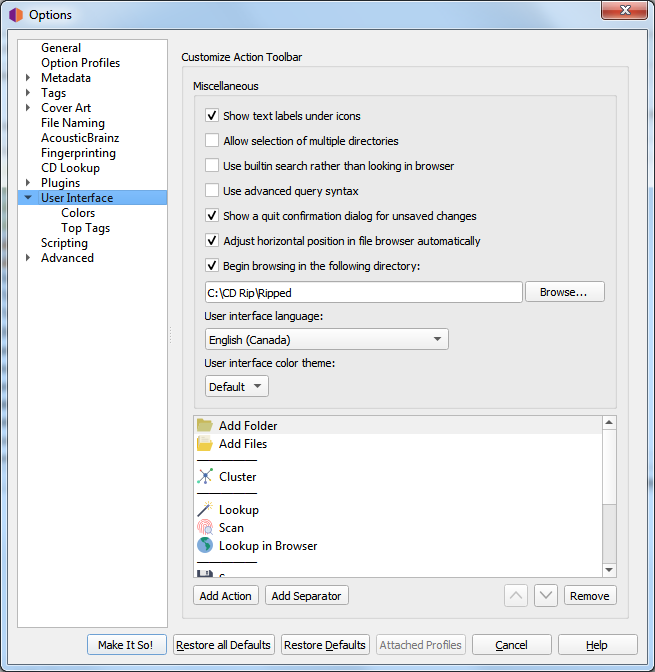
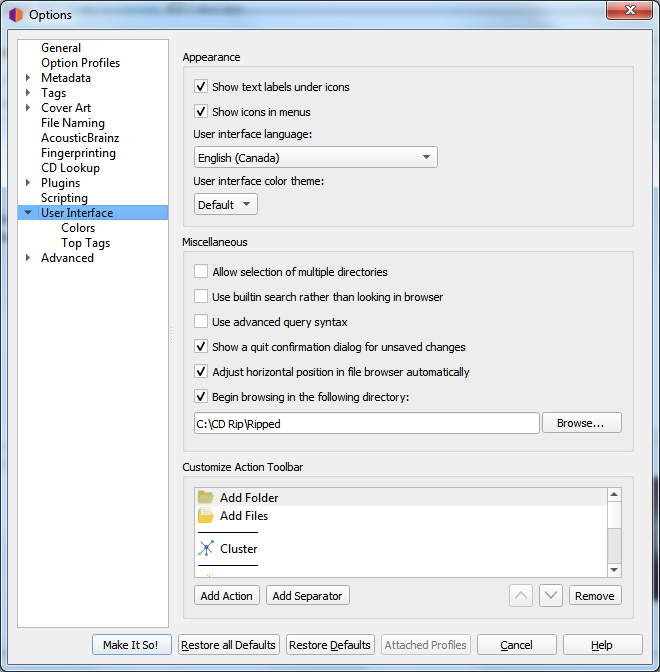
Add new options and rearrange to match the Interface options screen
- Add `Show icons in menus`
- Add `Adjust horizontal position in file browser automatically`

diff --git a/config/options_interface.rst b/config/options_interface.rst
@@ -11,33 +11,10 @@
     If this option is disabled, the text labels under the icons in the toolbar will not be displayed,
     causing the toolbar to appear a little smaller.
 
-**Allow selection of multiple directories**
+**Show icons in menus**
 
-    Enabling this option will bypass the native directory selector and use Qt's file dialog.  This
-    may be desirable since the native directory selector generally doesn't allow you to select more
-    than one directory. This applies to the :menuselection:`"File --> Add folder"` dialog. The file
-    browser always allows multiple directory selection.
-
-**Use built-in search rather than looking in browser**
-
-    When this option is enabled the search for albums, artists or tracks will show the results in a dialog.
-    By default this option is enabled. If this option is disabled Picard will open a search on
-    MusicBrainz.org in your default web browser.
-
-**Use advanced query syntax**
-
-    This will enable advanced query syntax parsing on your searches. This only applies to the search
-    box at the top right of Picard, not the lookup buttons.
-
-**Show a quit confirmation dialog for unsaved changes**
-
-    When this is enabled, Picard will show a dialog when you try to quit the program with unsaved
-    files loaded. This may help prevent accidentally losing tag changes you've made, but not yet saved.
-
-**Begin browsing in the following directory**
-
-    By default, Picard remembers the last directory used to load files. If you enable this option
-    and provide a directory, Picard will always start in the directory provided.
+    Some users prefer to disable menu icons, which is the default behavior for macos systems. This option
+    allows the user to select whether the icons are displayed in the menus.
 
 **User interface language**
 
@@ -62,6 +39,38 @@
         The colors for the light and dark themes can be customized in the :doc:`options_interface_colors` section.  Separate sets of
         color selections are maintained for the light and dark themes.  The colors for the currently displayed theme are the ones
         displayed for editing.
+
+**Allow selection of multiple directories**
+
+    Enabling this option will bypass the native directory selector and use Qt's file dialog.  This
+    may be desirable since the native directory selector generally doesn't allow you to select more
+    than one directory. This applies to the :menuselection:`"File --> Add folder"` dialog. The file
+    browser always allows multiple directory selection.
+
+**Use built-in search rather than looking in browser**
+
+    When this option is enabled the search for albums, artists or tracks will show the results in a dialog.
+    By default this option is enabled. If this option is disabled Picard will open a search on
+    MusicBrainz.org in your default web browser.
+
+**Use advanced query syntax**
+
+    This will enable advanced query syntax parsing on your searches. This only applies to the search
+    box at the top right of Picard, not the lookup buttons.
+
+**Show a quit confirmation dialog for unsaved changes**
+
+    When this is enabled, Picard will show a dialog when you try to quit the program with unsaved
+    files loaded. This may help prevent accidentally losing tag changes you've made, but not yet saved.
+
+**Adjust horizontal position in file browser automatically**
+
+    When this is enabled, Picard will automatically scroll the file browser display to keep relevant content visible.
+
+**Begin browsing in the following directory**
+
+    By default, Picard remembers the last directory used to load files. If you enable this option
+    and provide a directory, Picard will always start in the directory provided.
 
 **Customize action toolbar**
 
